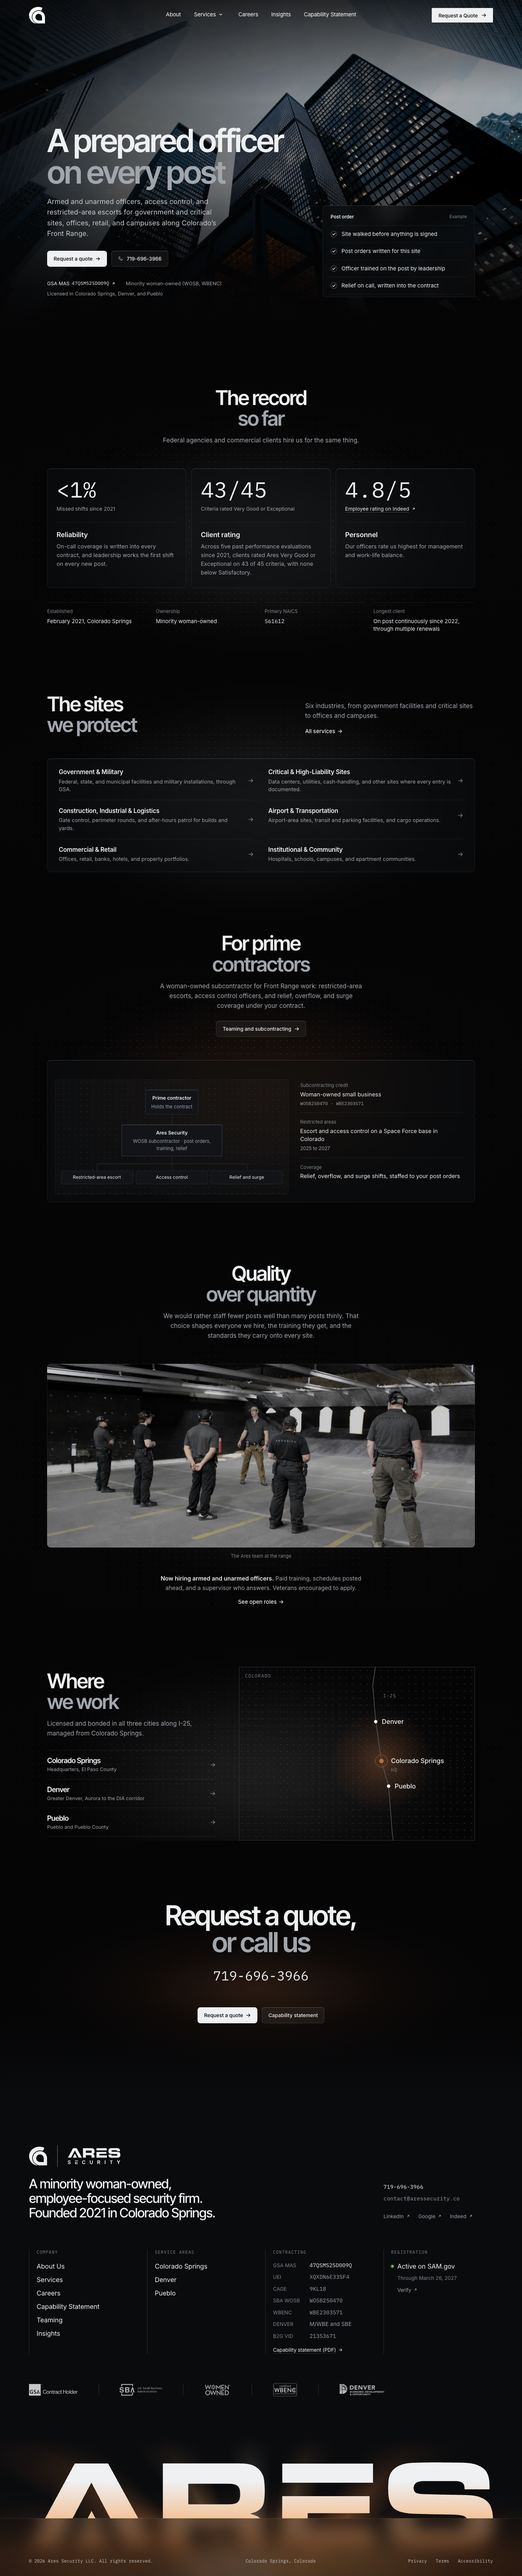
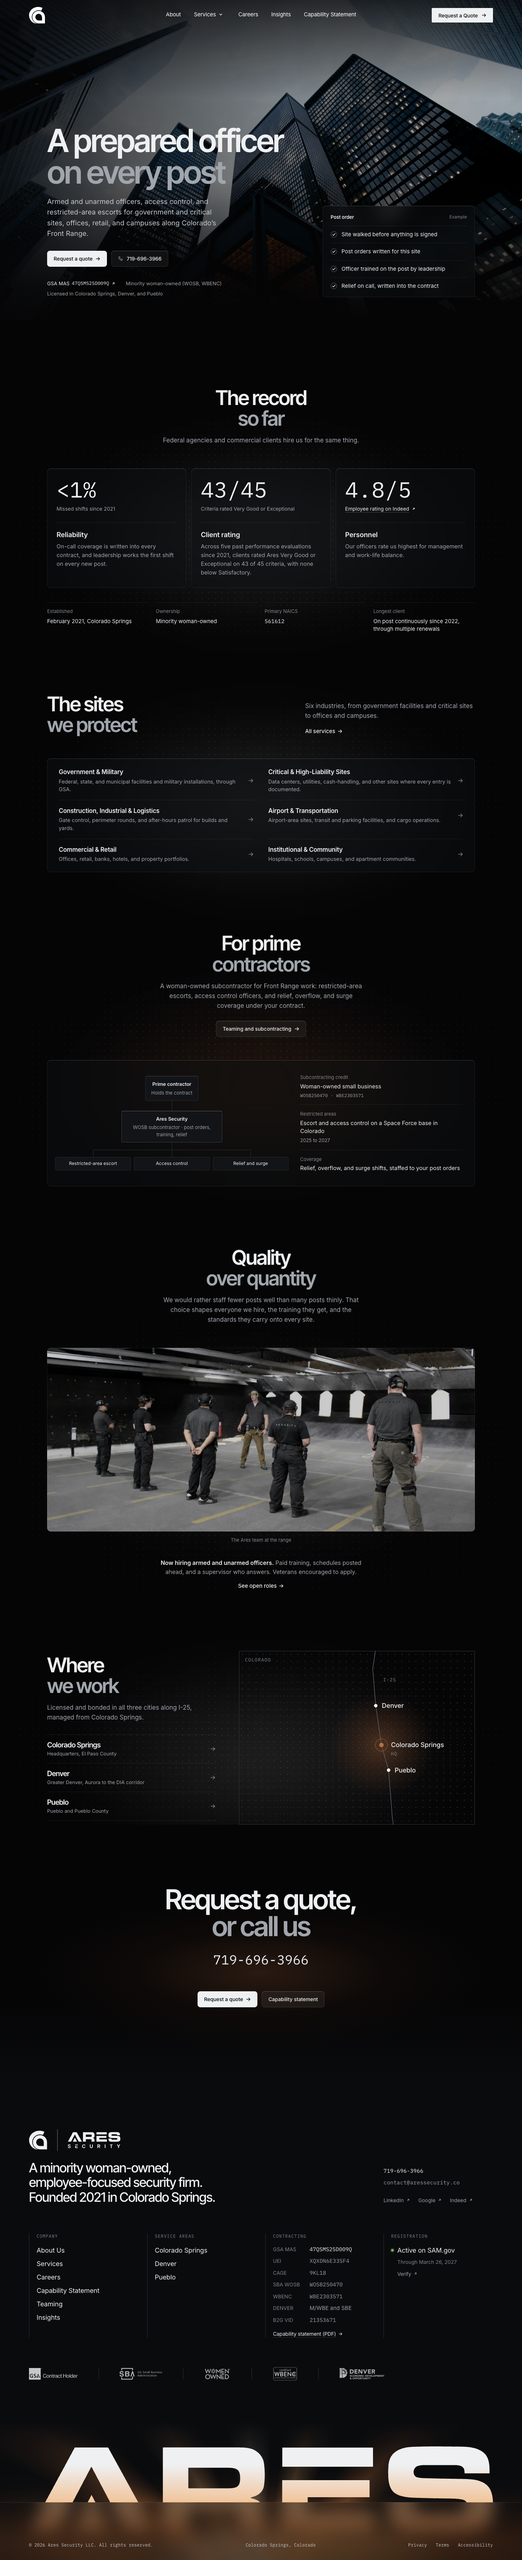
Home preview: diagram frame removed (specificity), post order without the double rule

diff --git a/src/home-next.css b/src/home-next.css
@@ -81,6 +81,7 @@
 .hn-sheet-title { font-size: 13px; font-weight: 600; color: var(--hn-ink); letter-spacing: -0.005em; }
 .hn-sheet-tag { font-size: 12px; color: var(--hn-dim); }
 .hn-sheet-steps { list-style: none; margin: 0; padding: 0; }
+.hn-sheet-steps li:last-child { border-bottom: 0; }
 .hn-sheet-steps li { display: grid; grid-template-columns: 18px 1fr; gap: 12px; align-items: center; padding: 13px 0; border-bottom: 1px solid rgb(255 255 255 / 0.06); font-size: 15px; line-height: 1.35; color: var(--hn-ink); }
 .hn-tick { color: var(--hn-ink); }
 
@@ -131,7 +132,7 @@ a.hn-caption { color: var(--hn-ink); text-decoration: underline; text-decoration
 
 /* 4. Prime */
 .hn-prime-panel { display: grid; gap: 28px; padding: 18px; }
-.hn-flow { margin: 0; padding: 12px 0; background: none; box-shadow: none; border-radius: 0; }
+.hn .hn-flow { margin: 0; padding: 12px 0; background: none; box-shadow: none; border-radius: 0; }
 /* Node titles in Inter: mono is for identifiers only. */
 .hn .ds-flow-node .ds-data { font-family: var(--ds-text); font-size: 13.5px; font-weight: 600; letter-spacing: -0.01em; }
 .hn-prime-proof { margin: 0; display: grid; gap: 0; padding: 0 6px 6px; }
